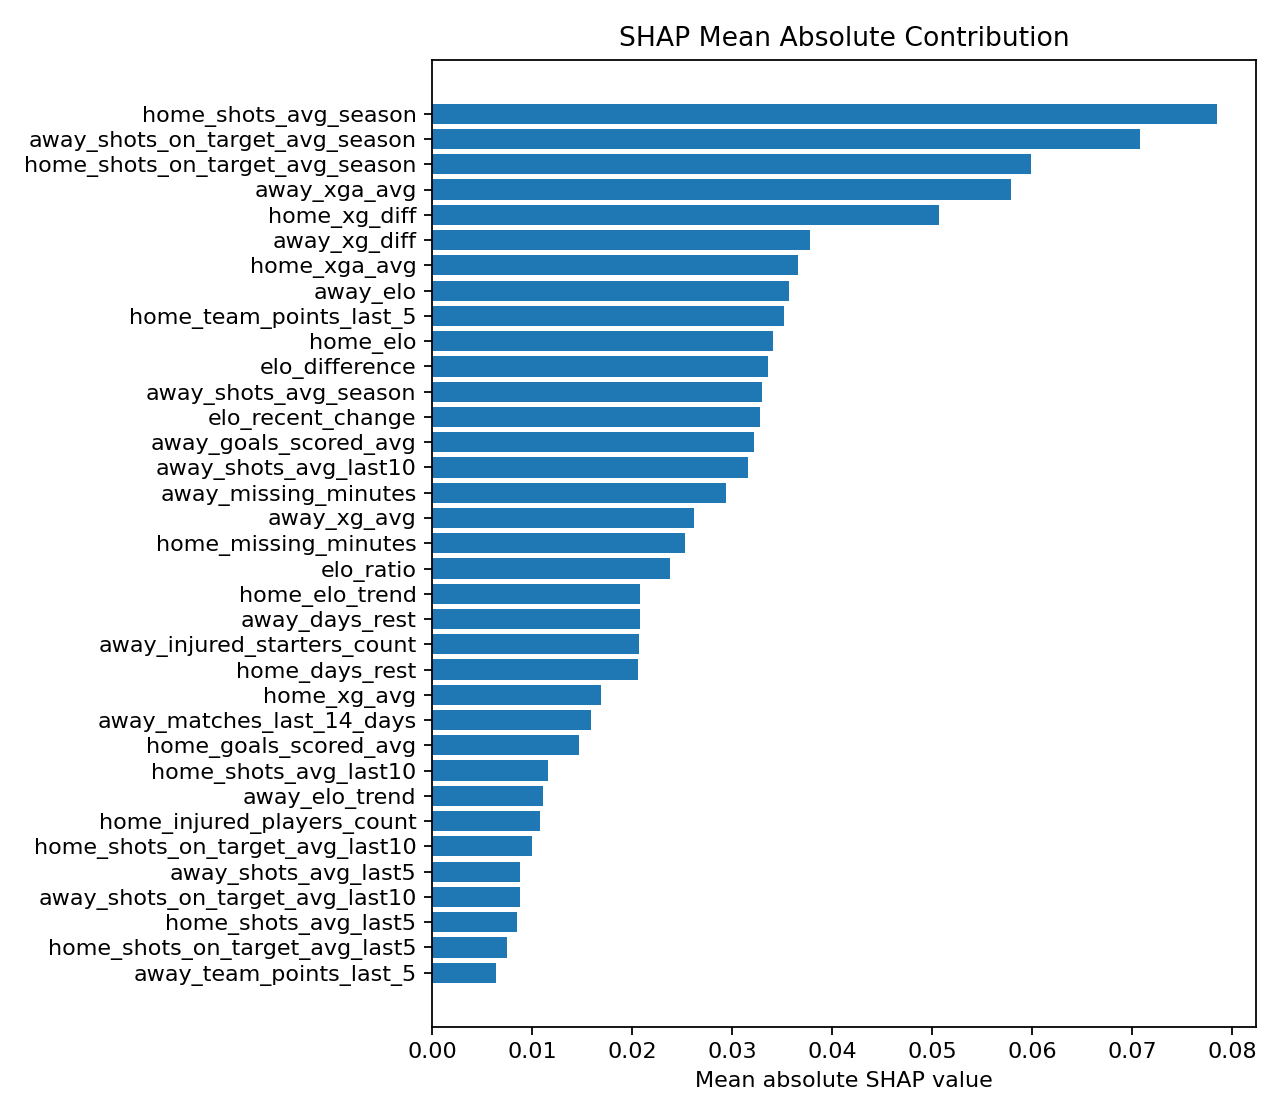
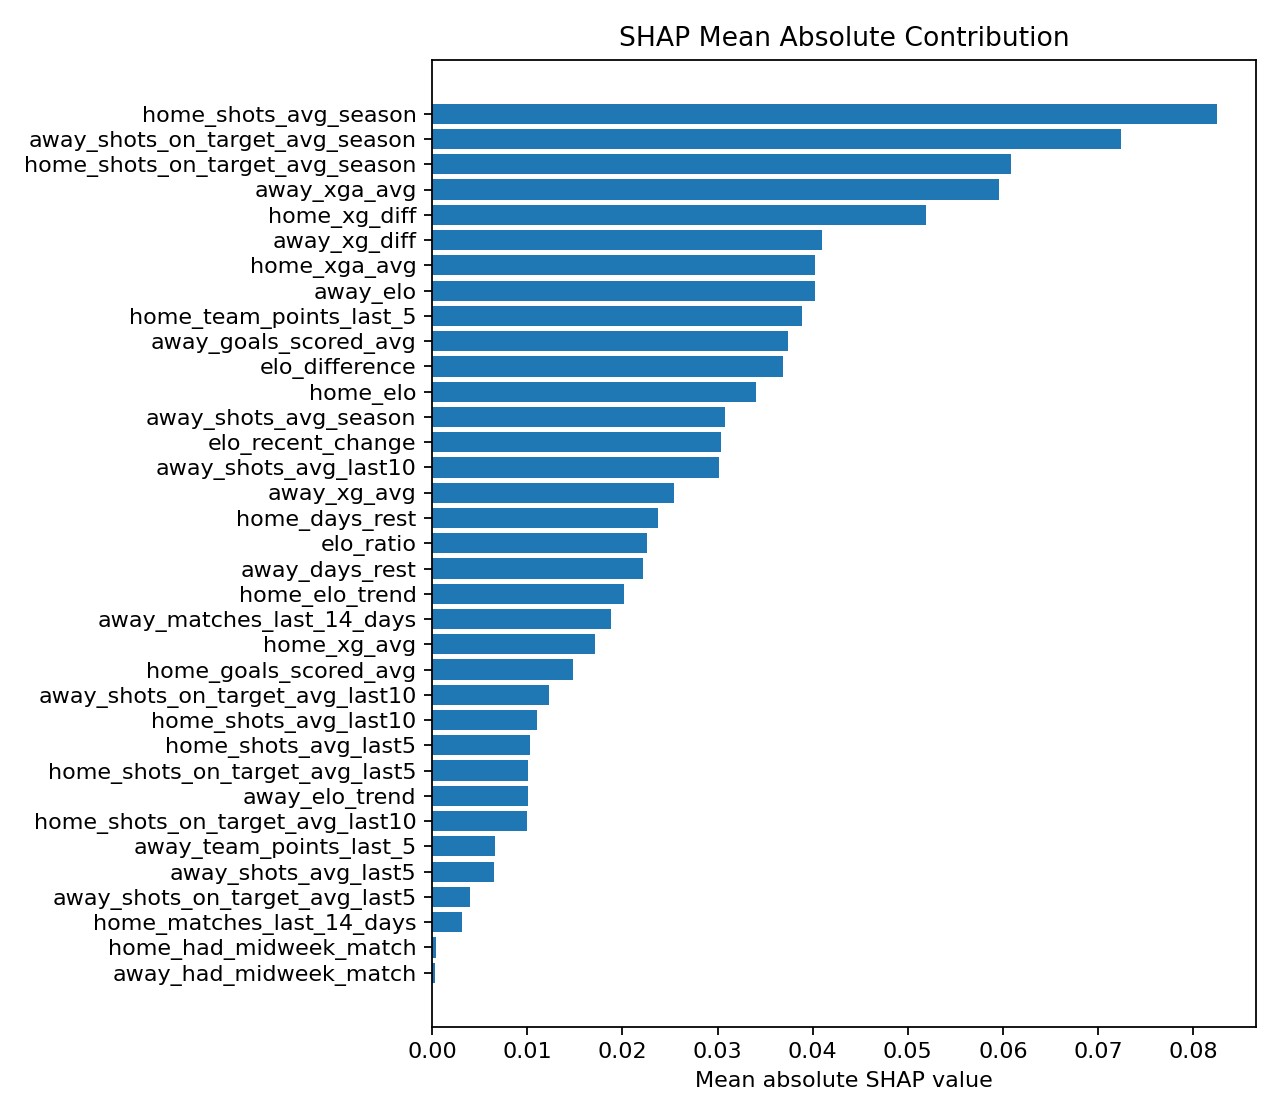
Split injury and suspension experiments

diff --git a/injury_engine_experiments.py b/injury_engine_experiments.py
@@ -25,6 +25,28 @@ matplotlib.use("Agg")
 OUTPUT_DIR = Path("evaluation") / "injury_engine"
 RESULTS_PATH = Path("experiments") / "injury_engine_results.csv"
 
+INJURY_ONLY_FEATURES = [
+    "injured_players_count",
+    "injured_starters_count",
+    "injured_expected_starters",
+    "injured_missing_minutes",
+    "injured_missing_goals",
+    "injured_missing_xg",
+    "injured_missing_xa",
+    "injured_missing_market_value",
+    "injured_missing_defensive_contribution",
+]
+SUSPENSION_ONLY_FEATURES = [
+    "suspended_players_count",
+    "suspended_expected_starters",
+    "suspended_missing_minutes",
+    "suspended_missing_goals",
+    "suspended_missing_xg",
+    "suspended_missing_xa",
+    "suspended_missing_market_value",
+    "suspended_missing_defensive_contribution",
+]
+
 
 def available_columns(dataset: pd.DataFrame, columns: list[str]) -> list[str]:
     return [column for column in columns if column in dataset.columns and dataset[column].notna().sum() > 0]
@@ -38,10 +60,14 @@ def build_injury_experiment_dataset() -> tuple[pd.DataFrame, pd.DataFrame, dict[
     dataset = pd.concat([base_dataset.reset_index(drop=True), elo_features.reset_index(drop=True), injury_rows], axis=1)
 
     production_columns = list(PRODUCTION_FEATURE_COLUMNS)
-    injury_columns = injury_feature_columns()
+    injury_columns = [f"{side}_{feature}" for side in ("home", "away") for feature in INJURY_ONLY_FEATURES]
+    suspension_columns = [f"{side}_{feature}" for side in ("home", "away") for feature in SUSPENSION_ONLY_FEATURES]
+    combined_columns = injury_feature_columns()
     feature_sets = {
         "model_a_current_production": production_columns,
-        "model_b_production_injury_features": production_columns + injury_columns,
+        "model_b_injury_only_features": production_columns + injury_columns,
+        "model_c_suspension_only_features": production_columns + suspension_columns,
+        "model_d_injury_suspension_features": production_columns + combined_columns,
     }
     metadata = matches[["Season", "Date", "HomeTeam", "AwayTeam", "FTR"]].reset_index(drop=True)
     return dataset, metadata, feature_sets, matches
@@ -131,14 +157,32 @@ def shap_outputs(result: dict[str, object]) -> pd.DataFrame:
     return shap_importance
 
 
-def write_report(results: pd.DataFrame, shap_importance: pd.DataFrame, injury_rows_count: int) -> None:
+def availability_signal_coverage(dataset: pd.DataFrame, metadata: pd.DataFrame, feature_sets: dict[str, list[str]]) -> str:
+    split = time_based_split(dataset[feature_sets["model_d_injury_suspension_features"]], dataset["target"], metadata)
+    rows = []
+    for label, feature_names in [
+        ("injury", [column for column in split.X_train.columns if "_injured_" in column]),
+        ("suspension", [column for column in split.X_train.columns if "_suspended_" in column]),
+    ]:
+        train_matches = int((split.X_train[feature_names].sum(axis=1) > 0).sum()) if feature_names else 0
+        test_matches = int((split.X_test[feature_names].sum(axis=1) > 0).sum()) if feature_names else 0
+        rows.append(f"- {label}: train matches with signal `{train_matches}` of `{len(split.X_train)}`; test matches with signal `{test_matches}` of `{len(split.X_test)}`")
+    return "\n".join(rows)
+
+
+def _availability_result(results: pd.DataFrame) -> pd.Series:
+    candidates = results[results["model_version"] != "model_a_current_production"].copy()
+    return candidates.sort_values(["log_loss", "Brier_score"]).iloc[0]
+
+
+def write_report(results: pd.DataFrame, shap_importance: pd.DataFrame, injury_rows_count: int, signal_coverage: str) -> None:
     baseline = results[results["model_version"] == "model_a_current_production"].iloc[0]
-    injury_model = results[results["model_version"] == "model_b_production_injury_features"].iloc[0]
-    log_loss_delta = float(injury_model["log_loss"] - baseline["log_loss"])
-    brier_delta = float(injury_model["Brier_score"] - baseline["Brier_score"])
+    availability_model = _availability_result(results)
+    log_loss_delta = float(availability_model["log_loss"] - baseline["log_loss"])
+    brier_delta = float(availability_model["Brier_score"] - baseline["Brier_score"])
     activate = injury_rows_count > 0 and log_loss_delta < 0 and brier_delta < 0
     production_decision = (
-        "Activate injury features as a production candidate."
+        f"Activate {availability_model['model_version']} as a production candidate."
         if activate
         else "Do not activate injury features. Historical availability rows exist, but they did not improve out-of-sample log loss and Brier score versus the current production feature set."
         if injury_rows_count > 0
@@ -158,12 +202,17 @@ def write_report(results: pd.DataFrame, shap_importance: pd.DataFrame, injury_ro
 
 - Historical injury/suspension rows available: {injury_rows_count}
 
+## Train/Test Signal Coverage
+
+{signal_coverage}
+
 ## Performance Impact
 
+- Best availability model: `{availability_model['model_version']}`
 - Log loss change: {log_loss_delta:.4f}
 - Brier score change: {brier_delta:.4f}
-- Calibration change: {float(injury_model['calibration_score'] - baseline['calibration_score']):.4f}
-- ECE change: {float(injury_model['expected_calibration_error'] - baseline['expected_calibration_error']):.4f}
+- Calibration change: {float(availability_model['calibration_score'] - baseline['calibration_score']):.4f}
+- ECE change: {float(availability_model['expected_calibration_error'] - baseline['expected_calibration_error']):.4f}
 
 ## SHAP
 
@@ -189,13 +238,15 @@ def main() -> None:
     results = [evaluate_feature_set(dataset, metadata, columns, version) for version, columns in feature_sets.items()]
     results_frame = save_results(results)
     plot_model_comparison(results_frame, OUTPUT_DIR / "model_comparison.png")
-    injury_result = next(result for result in results if result["model_version"] == "model_b_production_injury_features")
-    shap_importance = shap_outputs(injury_result)
-    write_report(results_frame, shap_importance, len(injuries))
+    best_model_version = str(_availability_result(results_frame)["model_version"])
+    best_result = next(result for result in results if result["model_version"] == best_model_version)
+    shap_importance = shap_outputs(best_result)
+    signal_coverage = availability_signal_coverage(dataset, metadata, feature_sets)
+    write_report(results_frame, shap_importance, len(injuries), signal_coverage)
     baseline = results_frame[results_frame["model_version"] == "model_a_current_production"].iloc[0]
-    injury_model = results_frame[results_frame["model_version"] == "model_b_production_injury_features"].iloc[0]
-    activate = len(injuries) > 0 and float(injury_model["log_loss"] - baseline["log_loss"]) < 0 and float(injury_model["Brier_score"] - baseline["Brier_score"]) < 0
-    print(json.dumps({"injury_rows": len(injuries), "activate": activate}, indent=2))
+    availability_model = _availability_result(results_frame)
+    activate = len(injuries) > 0 and float(availability_model["log_loss"] - baseline["log_loss"]) < 0 and float(availability_model["Brier_score"] - baseline["Brier_score"]) < 0
+    print(json.dumps({"injury_rows": len(injuries), "best_availability_model": str(availability_model["model_version"]), "activate": activate}, indent=2))
 
 
 if __name__ == "__main__":

diff --git a/injury_features.py b/injury_features.py
@@ -35,6 +35,18 @@ INJURY_FEATURES = [
     "injured_expected_starters",
     "suspended_players_count",
     "suspended_expected_starters",
+    "injured_missing_minutes",
+    "suspended_missing_minutes",
+    "injured_missing_goals",
+    "suspended_missing_goals",
+    "injured_missing_xg",
+    "suspended_missing_xg",
+    "injured_missing_xa",
+    "suspended_missing_xa",
+    "injured_missing_market_value",
+    "suspended_missing_market_value",
+    "injured_missing_defensive_contribution",
+    "suspended_missing_defensive_contribution",
     "missing_minutes",
     "missing_minutes_played",
     "missing_goals",
@@ -128,6 +140,18 @@ def injury_feature_totals(active: pd.DataFrame) -> dict[str, float]:
         "injured_expected_starters": float(injured_starters["player"].nunique()),
         "suspended_players_count": float(suspended["player"].nunique()),
         "suspended_expected_starters": float(suspended_starters["player"].nunique()),
+        "injured_missing_minutes": float(injured["minutes_played_last_365"].sum()),
+        "suspended_missing_minutes": float(suspended["minutes_played_last_365"].sum()),
+        "injured_missing_goals": float(injured["goals_last_365"].sum()),
+        "suspended_missing_goals": float(suspended["goals_last_365"].sum()),
+        "injured_missing_xg": float(injured["xg_contribution_last_365"].sum()),
+        "suspended_missing_xg": float(suspended["xg_contribution_last_365"].sum()),
+        "injured_missing_xa": float(injured["xa_contribution_last_365"].sum()),
+        "suspended_missing_xa": float(suspended["xa_contribution_last_365"].sum()),
+        "injured_missing_market_value": float(injured["market_value_eur"].sum()),
+        "suspended_missing_market_value": float(suspended["market_value_eur"].sum()),
+        "injured_missing_defensive_contribution": float(injured["defensive_contribution_last_365"].sum()),
+        "suspended_missing_defensive_contribution": float(suspended["defensive_contribution_last_365"].sum()),
         "missing_minutes": float(active["minutes_played_last_365"].sum()),
         "missing_minutes_played": float(active["minutes_played_last_365"].sum()),
         "missing_goals": float(active["goals_last_365"].sum()),

diff --git a/injury_engine_report.md b/injury_engine_report.md
@@ -5,35 +5,43 @@
 | model_version | accuracy | log_loss | Brier_score | calibration_score | expected_calibration_error |
 | --- | --- | --- | --- | --- | --- |
 | model_a_current_production | 0.4740 | 1.0595 | 0.6338 | 0.0509 | 0.0509 |
-| model_b_production_injury_features | 0.4758 | 1.0600 | 0.6349 | 0.0491 | 0.0491 |
+| model_b_injury_only_features | 0.4758 | 1.0598 | 0.6348 | 0.0495 | 0.0495 |
+| model_c_suspension_only_features | 0.4740 | 1.0595 | 0.6338 | 0.0509 | 0.0509 |
+| model_d_injury_suspension_features | 0.4758 | 1.0598 | 0.6348 | 0.0495 | 0.0495 |
 
 ## Injury Data Coverage
 
 - Historical injury/suspension rows available: 16992
 
+## Train/Test Signal Coverage
+
+- injury: train matches with signal `2099` of `2152`; test matches with signal `505` of `538`
+- suspension: train matches with signal `0` of `2152`; test matches with signal `71` of `538`
+
 ## Performance Impact
 
-- Log loss change: 0.0005
-- Brier score change: 0.0011
-- Calibration change: -0.0018
-- ECE change: -0.0018
+- Best availability model: `model_c_suspension_only_features`
+- Log loss change: 0.0000
+- Brier score change: 0.0000
+- Calibration change: 0.0000
+- ECE change: 0.0000
 
 ## SHAP
 
 Top injury/suspension features:
 
-- `away_missing_minutes`: 0.0294
-- `home_missing_minutes`: 0.0253
-- `away_injured_starters_count`: 0.0207
-- `home_injured_players_count`: 0.0107
-- `away_injured_players_count`: 0.0048
-- `home_injured_starters_count`: 0.0046
-- `away_missing_market_value`: 0.0000
-- `away_missing_xa`: 0.0000
-- `away_missing_xg_contribution`: 0.0000
-- `away_missing_xg`: 0.0000
-- `away_missing_goals`: 0.0000
-- `away_missing_minutes_played`: 0.0000
+- `away_suspended_missing_minutes`: 0.0000
+- `home_suspended_missing_defensive_contribution`: 0.0000
+- `away_suspended_players_count`: 0.0000
+- `away_suspended_expected_starters`: 0.0000
+- `away_suspended_missing_xg`: 0.0000
+- `away_suspended_missing_goals`: 0.0000
+- `home_suspended_missing_xa`: 0.0000
+- `away_suspended_missing_xa`: 0.0000
+- `away_suspended_missing_market_value`: 0.0000
+- `home_suspended_missing_market_value`: 0.0000
+- `home_suspended_expected_starters`: 0.0000
+- `home_suspended_missing_xg`: 0.0000
 
 ## Production Decision
 

diff --git a/README.md b/README.md
@@ -177,9 +177,10 @@ xG + schedule + Elo + shot volume log loss: 1.0453
 xG + schedule + Elo + shot volume Brier score: 0.6273
 xG + schedule + Elo + shot volume calibration error: 0.0475
 
-xG + schedule + Elo + shot volume + injuries log loss: 1.0600
-xG + schedule + Elo + shot volume + injuries Brier score: 0.6349
-xG + schedule + Elo + shot volume + injuries calibration error: 0.0491
+xG + schedule + Elo + shot volume + injuries-only log loss: 1.0598
+xG + schedule + Elo + shot volume + injuries-only Brier score: 0.6348
+xG + schedule + Elo + shot volume + suspensions-only log loss: 1.0595
+xG + schedule + Elo + shot volume + suspensions-only Brier score: 0.6338
 ```
 
 Lower log loss, Brier score, and calibration error are better.
